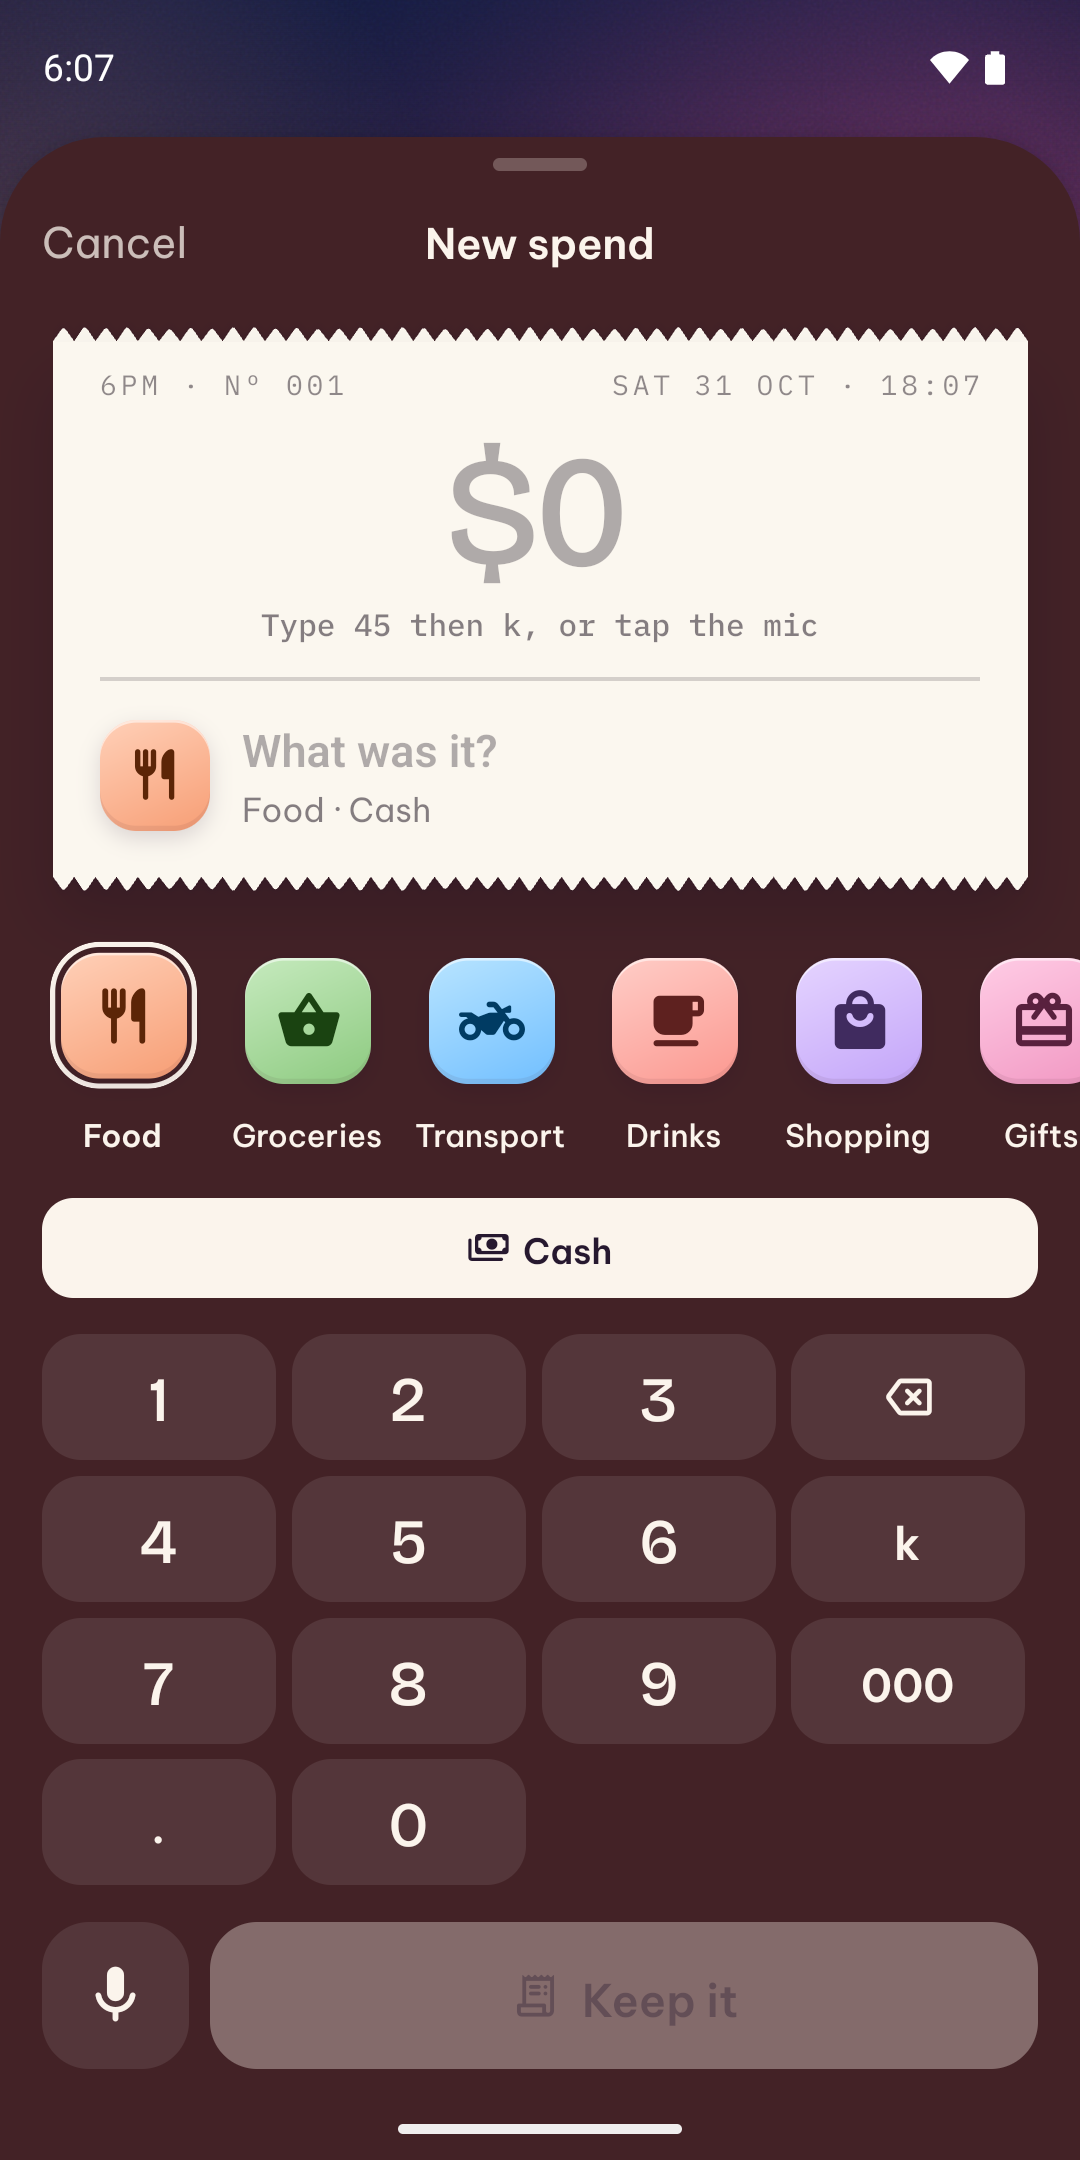
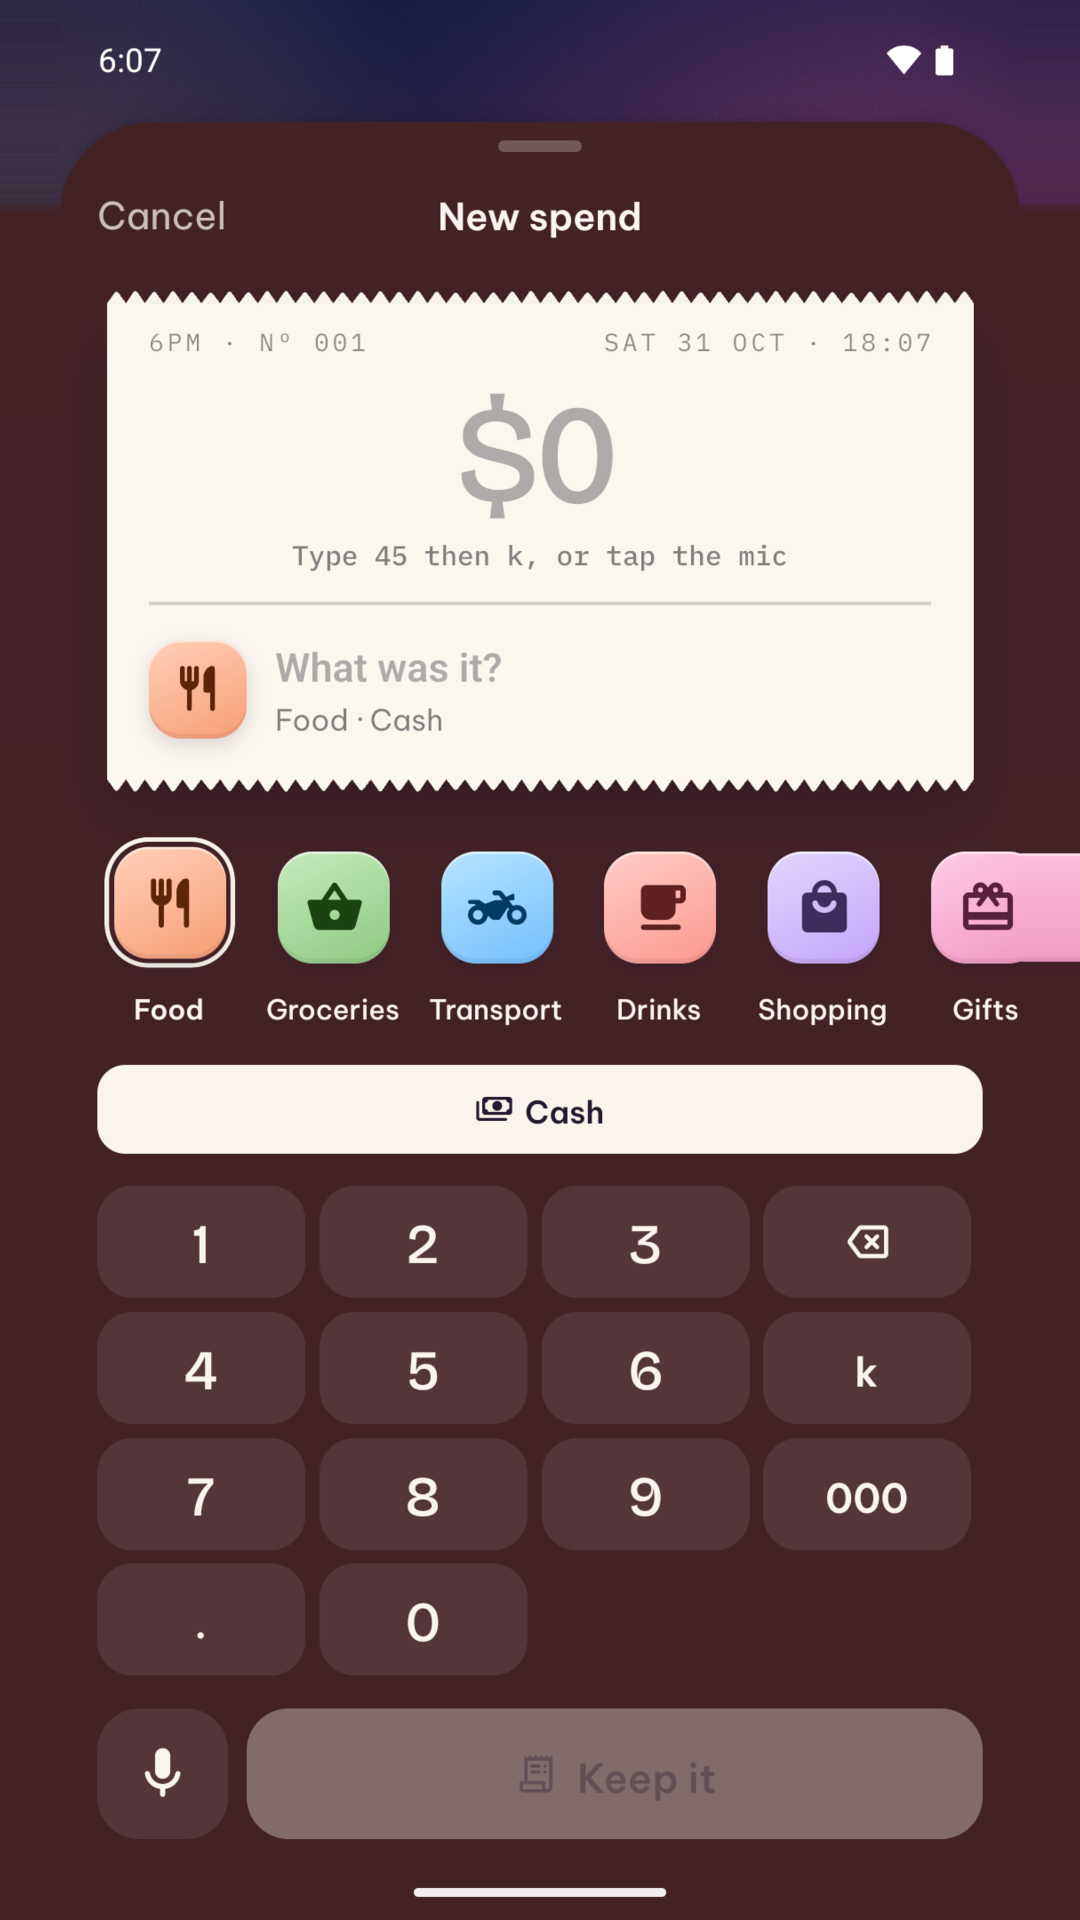
fix(android): publish on Google Play as app.at6pm, with Play billing (#552)
* fix(android): publish on Google Play as app.at6pm

ai.sixpm.app is held on Google Play by a developer account that was
closed, and Play never frees a package name. Android takes app.at6pm
(app.at6pm.dev for the dev build); iOS keeps ai.sixpm.app.

* chore(store): Play billing, 9:16 screenshots and the app content answers as entered

The prd profile carries the Play Store app's RevenueCat key. The README records the RevenueCat
service account, the real-time notification topic, the Data safety answers as entered in the
Console, and the first internal testing release.

diff --git a/apps/mobile/app.config.ts b/apps/mobile/app.config.ts
@@ -9,6 +9,11 @@ type AppVariant = 'dev' | 'prd' | 'e2e-test';
 interface VariantConfig {
   name: string;
   bundleIdentifier: string;
+  /**
+   * The Android package. Not the iOS id: `ai.sixpm.app` is held on Google Play by a developer
+   * account that was closed, and Play never frees a package name (31 Oct 2026).
+   */
+  androidPackage: string;
   /** Shared by the app and its extensions (widgets, share, Live Activity). */
   appGroup: string;
   scheme: string;
@@ -34,6 +39,7 @@ const IOS_DEPLOYMENT_TARGET = '17.0';
 const DEV: VariantConfig = {
   name: '6pm Dev',
   bundleIdentifier: 'ai.sixpm.app.dev',
+  androidPackage: 'app.at6pm.dev',
   appGroup: 'group.ai.sixpm.app.dev',
   scheme: 'sixpm-dev',
   host: 'dev.at6pm.app',
@@ -48,6 +54,7 @@ const VARIANTS: Record<AppVariant, VariantConfig> = {
   prd: {
     name: '6pm',
     bundleIdentifier: 'ai.sixpm.app',
+    androidPackage: 'app.at6pm',
     appGroup: 'group.ai.sixpm.app',
     scheme: 'sixpm',
     host: 'at6pm.app',
@@ -207,7 +214,7 @@ export default ({ config }: ConfigContext): ExpoConfig => ({
     },
   },
   android: {
-    package: variant.bundleIdentifier,
+    package: variant.androidPackage,
     // The icon's sky and sun behind the launcher's mask, and its outline for themed icons.
     adaptiveIcon: {
       foregroundImage: './assets/android/adaptive-foreground.png',

diff --git a/apps/mobile/store/play/README.md b/apps/mobile/store/play/README.md
@@ -1,8 +1,10 @@
 # Google Play listing
 
-What the Play Console asks for before a build can go to a testing track, for `ai.sixpm.app`. The text
+What the Play Console asks for before a build can go to a testing track, for `app.at6pm` (the dev
+build is `app.at6pm.dev`). Android cannot use the iOS id: `ai.sixpm.app` is held on Play by a
+developer account that was closed, and Play never frees a package name. The text
 follows the App Store listing (`../README.md`, `store.config.json`), less what Android does not have
-(Apple Pay, widgets, Siri, Budget together, the companion's Home Screen icon, on-device models) and
+(Apple Pay, widgets, Siri, Budget together, the companion's Home Screen icon, on-device mode) and
 with what it has instead (bank and wallet notifications).
 
 ## Graphics
@@ -11,17 +13,17 @@ with what it has instead (bank and wallet notifications).
 | --- | --- | --- |
 | `icon-512.png` | App icon | 512 × 512 |
 | `{en-US,vi}/feature-graphic.png` | Feature graphic | 1024 × 500, the App Store header creative cropped to its middle |
-| `{en-US,vi}/screenshots/*.png` | Phone screenshots | 1080 × 2160 (Play takes at most 2:1) |
+| `{en-US,vi}/screenshots/*.png` | Phone screenshots | 1080 × 1920 (Play takes only 9:16) |
 
 ### Screenshots
 
 Real captures of the developer build on the Android emulator (`sixpm-pixel`), in order: Today, the
 Close, Bank alerts, the Inbox, Quick add, Plan and Diary. Each is the Friday fixture with the clock
 pinned at 18:07 (`dev-command.json`: `{"seed":"friday","at":"18:07","route":"/close"}`, in dollars for
-en-US and đồng for vi; its categories take the app's language). The screen is set to the 2:1 Play
-allows (`adb shell wm size 1080x2160`), with the dev Tools button off and Android's demo status bar at
-18:07 (`com.android.systemui.demo`). The app language follows Android's per-app language
-(`cmd locale set-app-locales ai.sixpm.app.dev --locales vi-VN`).
+en-US and đồng for vi; its categories take the app's language). The screen is set to 2:1 (`adb shell wm size 1080x2160`), with the dev Tools button off and Android's demo status bar at
+18:07 (`com.android.systemui.demo`); each is then scaled to 1920 tall and its own side edges extended to
+1080 wide, since Play takes only 9:16. The app language follows Android's per-app language
+(`cmd locale set-app-locales app.at6pm.dev --locales vi-VN`).
 
 ## Text
 
@@ -61,7 +63,7 @@ LOOKS AND COMPANIONS
 Eleven looks, from Sơn Mài lacquer to Neon Alley, that follow your real clock from dawn to midnight. Six companions keep you company.
 
 PRIVATE BY DESIGN
-No bank login, ever. Your money stays encrypted on your phone. On-device mode keeps everything on this phone. 6pm is open source.
+No bank login, ever. Your money stays encrypted on your phone. 6pm is open source.
 
 6pm is free. 6pm Max adds every look, unlimited Ask and pots, Travel mode, the Year book, and encrypted backup and export.
 
@@ -107,7 +109,7 @@ GIAO DIỆN VÀ BẠN ĐỒNG HÀNH
 Mười một giao diện, từ Sơn Mài đến Neon Alley, đổi theo giờ thật từ bình minh đến nửa đêm. Sáu bạn đồng hành ở bên bạn.
 
 RIÊNG TƯ TỪ ĐẦU
-Không bao giờ hỏi mật khẩu ngân hàng. Dữ liệu được mã hoá trên điện thoại. Chế độ trên máy giữ mọi thứ ở lại điện thoại. 6pm là mã nguồn mở.
+Không bao giờ hỏi mật khẩu ngân hàng. Dữ liệu được mã hoá trên điện thoại. 6pm là mã nguồn mở.
 
 6pm miễn phí. 6pm Max mở mọi giao diện, Hỏi và hũ không giới hạn, chế độ Du lịch, Sổ năm, sao lưu mã hoá và xuất dữ liệu.
 
@@ -124,7 +126,7 @@ Chính sách quyền riêng tư: https://at6pm.app/vi/privacy
 | Form | Answer |
 | --- | --- |
 | Privacy policy | https://at6pm.app/privacy (covers Android once the Android section is deployed) |
-| App access | All functionality is available without special access: no account, no login |
+| App access | No account or login, but 6pm Max is paid: the form wants a way into every paid feature, so a Max promo code goes in once the products exist (Target audience waits on this form) |
 | Ads | No ads |
 | Content rating | IARC questionnaire, category Utility/Productivity: no violence, sexuality, language, drugs, gambling or user-generated content shared with others; users do not interact; no location shared with others; digital purchases: yes |
 | Target audience | 18 and over (the policy says not made for children under 16) |
@@ -141,13 +143,18 @@ Data **collected** (leaves the phone):
 
 | Data type | Collected | Shared | Why | Optional |
 | --- | --- | --- | --- | --- |
-| App info and performance → Crash logs, Diagnostics | Yes | No | App functionality (crash reports, Sentry; off in on-device mode) | Yes (on-device mode) |
+| App info and performance → Crash logs, Diagnostics | Yes | No | Analytics (crash reports, Sentry; Android has no on-device mode to turn them off) | No |
 | Device or other IDs | Yes | No | App functionality, fraud prevention (anonymous device token, stored hashed) | No |
 | Financial info → Purchase history | Yes | No | App functionality (RevenueCat purchase status) | No |
-| Financial info → Other financial info | Yes | No | App functionality: forwarded bank emails, read and deleted once collected; receipt photos the phone cannot read | Yes |
+| Financial info → Other financial info | Yes | No | App functionality: what a forwarded bank email holds, kept until the phone collects it; receipt photos the phone cannot read | Yes |
+| Messages → Emails | Yes | No | App functionality: forwarded bank emails, read and not stored | Yes |
 | Photos | Yes | No | App functionality: a receipt photo the phone cannot read, sent once to be read, not stored | Yes |
 | Audio → Voice or sound recordings | Yes | No | App functionality: streamed to speech-to-text while you speak, not stored | Yes |
 | Messages → Other in-app messages | Yes | No | App functionality: questions asked to Ask 6pm, not stored | Yes |
+
+None is marked as processed ephemerally: Anthropic keeps requests for up to 30 days. No account
+creation (Budget together, the only sign-in, is not in the Android app). Data deletion link:
+https://at6pm.app/privacy#your-choices-and-rights.
 
 Processors (Anthropic, Deepgram, ElevenLabs, RevenueCat, Sentry, Cloudflare) act for 6pm, so this is
 "collected", not "shared". Data is encrypted in transit. Users can ask for deletion (the policy's contact).
@@ -165,10 +172,24 @@ encrypted, so Play counts it as not collected.
 | `CAMERA`, `RECORD_AUDIO`, coarse and fine location | Scan, voice, Travel mode (foreground only) |
 | No `READ_MEDIA_*` | Scan uses the system Photo Picker; saving pictures needs no read access |
 
-## Before the first release
+## Billing
 
-- **RevenueCat**: the Android app in RevenueCat and `EXPO_PUBLIC_REVENUECAT_ANDROID_KEY` in the `prd`
-  profile, plus the Play subscription and in-app products (ids as on the App Store; subscriptions
-  with a `yearly`/`monthly` base plan). Until then Max and looks show as unavailable on Android.
+- **RevenueCat**: the app "6pm (Play Store)" in the 6pm project, package `app.at6pm`; its public key is
+  `EXPO_PUBLIC_REVENUECAT_ANDROID_KEY` in the `prd` profile. Purchases are read with the service
+  account `sixpm-revenuecat@sixpm-play.iam.gserviceaccount.com` (Google Cloud project `sixpm-play`),
+  which has view, financial data and order permissions on this app only in the Play Console, and
+  Pub/Sub Admin and Monitoring Viewer in its project. Real-time notifications go through
+  `projects/sixpm-play/topics/Play-Store-Notifications`.
+- **Products**: Play shows its products page only once the account has a payments profile (merchant
+  account). Then the subscriptions `ai.sixpm.app.max.monthly` and `ai.sixpm.app.max.yearly` (base plans
+  `monthly` and `yearly`, 99.000₫ and 799.000₫, $4.99 and $34.99, a 7-day free trial) and the one-time
+  looks `ai.sixpm.app.look.<id>` (49.000₫ classic, 99.000₫ living scenes), the ids the App Store uses,
+  are imported into RevenueCat and attached to the `max` entitlement and the offerings. Until then
+  Max and looks show as unavailable on Android.
+
+## Releases
+
 - **Upload**: Play takes the first build of a new app only through the Console. Later builds can go by
   `eas submit -p android --profile prd` once a Google service account key is added in EAS.
+- **Internal testing**: the first build, versionCode 2 (2.1.0), went to internal testing on 31 Oct
+  2026 for the account's "Internal" testers list.
